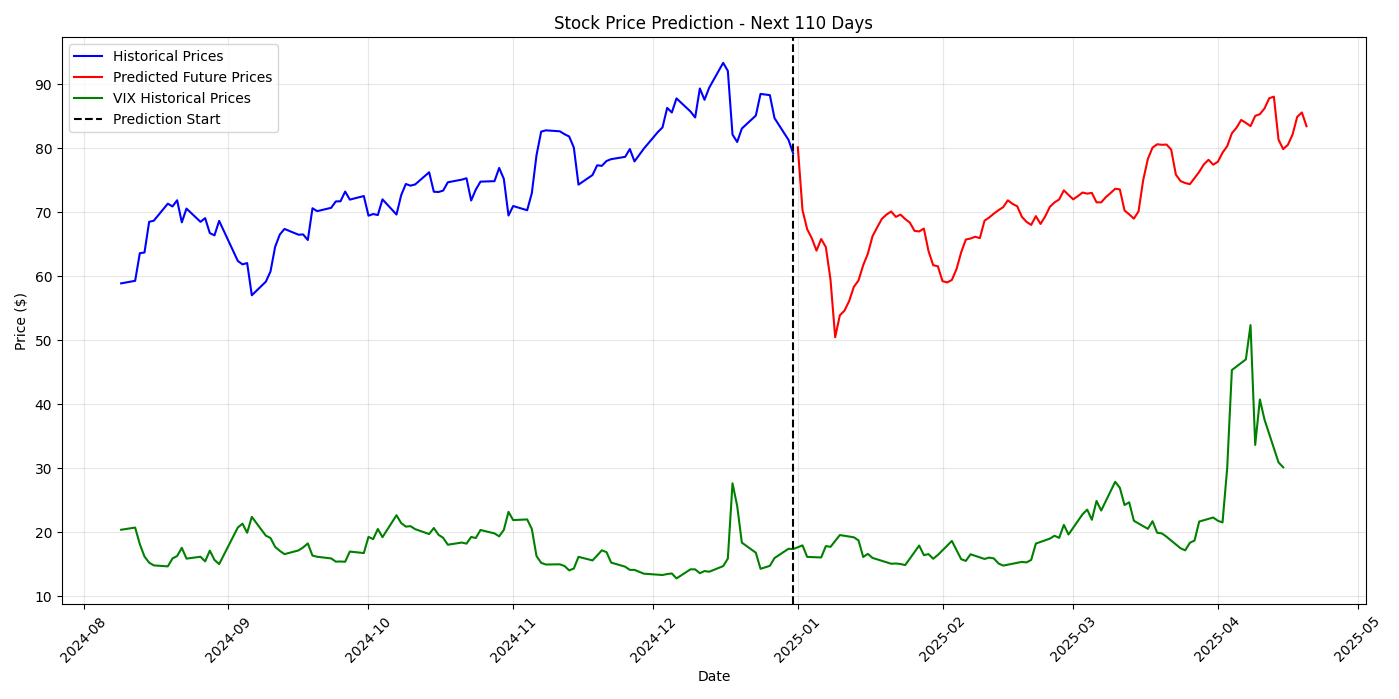
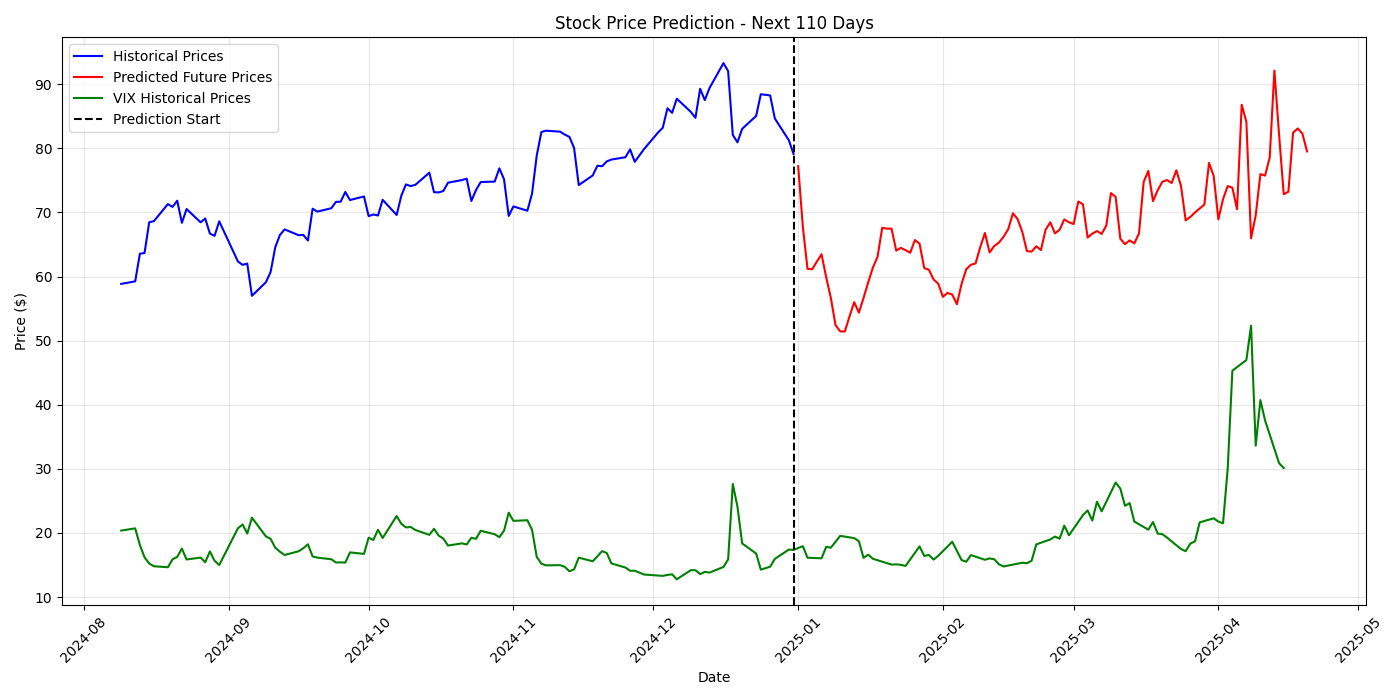
slightly better

diff --git a/tqqq.py b/tqqq.py
@@ -47,33 +47,52 @@ scaled_vix = scaler.fit_transform(vix_df[doscale])
 scaled_tqqq_df = pl.DataFrame(scaled_tqqq, schema=doscale)
 scaled_vix_df = pl.DataFrame(scaled_vix, schema=doscale)
 # Add VIX data to the scaled dataframe
-merged = df.join(vix_df, on='Date', how='inner', suffix='_vix')
+merged_for_gbdt = df.join(vix_df, on='Date', how='inner', suffix='_vix')
 
-# Gradient Boosting Regressor
-vix_features = [col for col in vix_df.columns if col not in ['Date', 'Volume']]
-X = merged.select([f"{col}_vix" for col in vix_features]).to_numpy()
-y = merged['Close'].to_numpy()
+# Define features for GBDT (original VIX column names, will be suffixed)
+gbdt_vix_original_features = [col for col in vix_df.columns if col not in ['Date', 'Volume']]
+# These are the feature names as they appear in merged_for_gbdt, used for selecting X
+gbdt_X_feature_names = [f"{col}_vix" for col in gbdt_vix_original_features]
 
-split_idx = int(len(X) * 0.8)
-X_train, X_test = X[:split_idx], X[split_idx:]
-y_train, y_test = y[:split_idx], y[split_idx:]
+X_gbdt = merged_for_gbdt.select(gbdt_X_feature_names).to_numpy()
+y_gbdt = merged_for_gbdt['Close'].to_numpy() # TQQQ Close is the target
+
+split_idx_gbdt = int(len(X_gbdt) * 0.8)
+X_train_gbdt, X_test_gbdt = X_gbdt[:split_idx_gbdt], X_gbdt[split_idx_gbdt:]
+y_train_gbdt, y_test_gbdt = y_gbdt[:split_idx_gbdt], y_gbdt[split_idx_gbdt:]
 
 # Train GBDT
 gbdt = GradientBoostingRegressor(n_estimators=100, random_state=42)
-gbdt.fit(X_train, y_train)
+gbdt.fit(X_train_gbdt, y_train_gbdt)
 
-# Predict using GBDT
-gbdt_preds = gbdt.predict(X)
-merged = merged.with_columns(pl.Series("GBDT_Pred", gbdt_preds))
+# Predict using GBDT on the entire merged_for_gbdt set to get GBDT_Pred column
+gbdt_preds_all = gbdt.predict(X_gbdt)
+merged_for_gbdt = merged_for_gbdt.with_columns(pl.Series("GBDT_Pred", gbdt_preds_all))
 
-# Include GBDT predictions in the scaled dataframe
-noscale = ['Date','Volume','Volume_vix']
+merged = merged_for_gbdt
+
+# --- LSTM Preprocessing ---
+# Define features to scale for LSTM
+# Noscale should include original VIX columns if they are still in 'merged' from a different join.
+# Assuming 'merged' columns are: TQQQ_cols, VIX_cols_suffixed, GBDT_Pred
+noscale = ['Date','Volume','Volume_vix'] # Volume from TQQQ, Volume_vix from VIX
 doscale = [col for col in merged.columns if col not in noscale]
 
-# Scale the merged dataframe
+# Scale the 'merged' dataframe (which now includes GBDT_Pred)
 scaler = MinMaxScaler(feature_range=(0,1))
-scaled_merged = scaler.fit_transform(merged[doscale])
-scaled_tqqq_df = pl.DataFrame(scaled_merged, schema=doscale)
+# Important: Fit the scaler on the data that will be used to create sequences.
+# Ensure 'doscale' only contains numeric columns intended for scaling.
+# Convert to numpy for scaler, handling potential non-numeric types if any slipped into doscale
+try:
+    doscale_numeric_data = merged.select(doscale).to_numpy()
+except pl.ComputeError as e:
+    print(f"Error converting doscale columns to numpy. Check for non-numeric types in 'doscale': {doscale}")
+    print(f"Columns in 'merged': {merged.columns}")
+    print(f"doscale list: {doscale}")
+    raise e
+
+scaled_merged_values = scaler.fit_transform(doscale_numeric_data)
+scaled_features_df = pl.DataFrame(scaled_merged_values, schema=doscale) # This df contains all features for LSTM, scaled
 
 # Make new scaler
 # The reason we need a new scaler because the first one operated on an array with shape (n,5)
@@ -85,21 +104,23 @@ close_scaler.fit(merged.select("Close").to_numpy())
 # Make Sequences
 # Partitions data into sequences meant to predict the value directly after them
 # Takes numpy array or dataframe in data, and sequence length in seq_length
-def make_sequences(data: pl.DataFrame, seq_length: int):
+def make_sequences(scaled_data_df: pl.DataFrame, full_merged_df: pl.DataFrame, seq_length: int,
+                   doscale_list: list, target_scaler: MinMaxScaler):
     sequences = []
     labels = []
 
-    # Convert to numpy
-    np_data = data.select(doscale).to_numpy()
-    close_prices = tqqq['Close'].to_numpy()
+    np_scaled_data = scaled_data_df.select(doscale_list).to_numpy()
+    # Get unscaled close prices from the *full* merged dataframe to ensure alignment
+    unscaled_close_prices_for_labels = full_merged_df['Close'].to_numpy()
 
-    for i in range(len(np_data) - seq_length):
-        sequences.append(np_data[i:i + seq_length])
+    for i in range(len(np_scaled_data) - seq_length):
+        sequences.append(np_scaled_data[i:i + seq_length])
 
-        # Get close price (not scaled yet) and scale it
-        price = close_prices[i + seq_length]
-        scaled_price = close_scaler.transform([[price]])[0][0]
-        labels.append(scaled_price)
+        # Get the unscaled close price for the label
+        price_label_unscaled = unscaled_close_prices_for_labels[i + seq_length]
+        # Scale it using the dedicated close_scaler
+        scaled_price_label = target_scaler.transform([[price_label_unscaled]])[0][0]
+        labels.append(scaled_price_label)
 
     return np.array(sequences), np.array(labels)
 
@@ -107,7 +128,7 @@ def make_sequences(data: pl.DataFrame, seq_length: int):
 length = 110
 
 # Converting scaled dataframe into sets of sequences and labels
-seqSet, labSet = make_sequences(scaled_tqqq_df, length)
+seqSet, labSet = make_sequences(scaled_features_df, merged, length, doscale, close_scaler)
 
 # Split into Training and Test Sets
 # Determine the split of how much of the sets do we want to be training
@@ -159,15 +180,11 @@ model.compile(
 # in a set number of epochs
 
 history = model.fit(
-    # Setting the training sets, x is the sequences and the y is the predicted values
     x = seqSetTrain,
     y = labSetTrain,
-
-    # Set number of epoch aka how many "cycles" the model trains before its done
-    epochs = 20,
-
-    # See (https://keras.io/api/models/model_training_apis/#fit-method)
-    # for more info on the fit method
+    epochs = 20, # more epochs for real training
+    batch_size=32, # Added batch_size
+    validation_split=0.1 # Optional: use part of training data for validation during training
 )
 
 # Predict from Tests
@@ -216,109 +233,112 @@ future_predictions_unscaled = []
 # 'doscale' is:
 # ['Open', 'High', 'Low', 'Close', 'Adj Close', 'Open_vix', 'High_vix', 'Low_vix', 'Close_vix', 'AdjClose_vix', 'GBDT_Pred']
 
-# Indices of key features in the 'doscale' list
-tqqq_close_idx = doscale.index('Close')
-
-# VIX feature names in 'doscale' and their original names in 'vix_df'
-doscale_vix_feature_names = ['Open_vix', 'High_vix', 'Low_vix', 'Close_vix', 'AdjClose_vix']
-# Original VIX column names in vix_df (these are used to fetch values and for GBDT input)
-original_vix_column_names_for_gbdt_input = [col for col in vix_df.columns if col not in ['Date', 'Volume']]
-# This should be ['Open', 'High', 'Low', 'Close', 'Adj Close']
-
-# Create a mapping from doscale_vix_feature_names to original_vix_column_names
-# This helps fetch the correct VIX value for the corresponding doscale feature
-vix_doscale_to_original_map = {
-    ds_name: og_name for ds_name, og_name in zip(doscale_vix_feature_names, original_vix_column_names_for_gbdt_input)
-}
-assert all(name in vix_doscale_to_original_map for name in doscale_vix_feature_names) # Sanity check
-
-# Indices of VIX features in 'doscale'
-vix_feature_indices_in_doscale = [doscale.index(name) for name in doscale_vix_feature_names]
-
-# Index of GBDT_Pred in 'doscale'
+tqqq_close_idx = doscale.index('Close') # TQQQ's own close price
 gbdt_pred_idx = doscale.index('GBDT_Pred')
 
-# Generate future dates for VIX data lookup and plotting
-last_date_in_merged_data = merged['Date'][-1]  # Last date for which we have TQQQ & VIX history in 'merged'
-future_dates = [last_date_in_merged_data + timedelta(days=i) for i in range(1, future_steps + 1)]
+# VIX feature names in 'doscale' (suffixed) and their original names in 'vix_df'
+# These are the VIX columns from 'vix_df' that were used to create the GBDT features
+# Make sure this list is in the same order as GBDT model expects its input features
+# gbdt_vix_original_features was defined earlier: [col for col in vix_df.columns if col not in ['Date', 'Volume']]
+# So, this should be ['Open', 'High', 'Low', 'Close', 'Adj Close'] (or similar, check vix.csv headers)
 
-# Get actual future VIX data from vix_df
-# This assumes vix_df contains VIX data for these future_dates
-future_vix_available_df = vix_df.filter(pl.col("Date").is_in(future_dates)).sort("Date")
+# Map from the suffixed names in 'doscale' to original names in 'vix_df'
+# Example: if gbdt_vix_original_features = ['Open', 'High', ..., 'Adj Close']
+# and corresponding doscale names are 'Open_vix', 'High_vix', ..., 'Adj Close_vix'
+doscale_vix_feature_names_suffixed = [f"{col}_vix" for col in gbdt_vix_original_features]
+
+# Check if all these suffixed names are actually in 'doscale'
+missing_suffixed_vix_in_doscale = [name for name in doscale_vix_feature_names_suffixed if name not in doscale]
+if missing_suffixed_vix_in_doscale:
+    raise ValueError(f"Suffixed VIX feature names {missing_suffixed_vix_in_doscale} not found in 'doscale' list ({doscale}). Check suffixing and 'doscale' definition.")
+
+vix_feature_indices_in_doscale = [doscale.index(name) for name in doscale_vix_feature_names_suffixed]
+
+# Generate future dates
+# Ensure 'merged' is sorted by 'Date' to get the correct last date.
+# The initial sort of df and vix_df and inner join should maintain this.
+last_date_in_merged_data = merged['Date'][-1]
+future_dates = [last_date_in_merged_data + timedelta(days=i) for i in range(1, future_steps + 1)]
 
 # --- Modified Future Prediction Loop ---
 print(f"Starting future prediction loop for {future_steps} steps...")
+future_predictions = []
+
 for k in range(future_steps):
-    # 1. Get the LSTM prediction (scaled TQQQ Close)
+    # Predict TQQQ Close (scaled) for the next step
     predicted_tqqq_close_scaled = model.predict(current_sequence, verbose=0)[0, 0]
-    
-    # 2. Unscale the TQQQ Close prediction for storage
+
+    # Unscale the prediction
     predicted_tqqq_close_unscaled = close_scaler.inverse_transform([[predicted_tqqq_close_scaled]])[0, 0]
     future_predictions_unscaled.append(predicted_tqqq_close_unscaled)
-    
-    # If this is the last prediction step, no need to prepare sequence for a *next* prediction
+
+    # If this is the last prediction needed, break
     if k == future_steps - 1:
         break
 
-    # --- Prepare the last timestep of the *next* input sequence ---
-    # This new last timestep will contain data corresponding to `future_dates[k]`
-    
-    current_future_day_for_vix = future_dates[k]
-    
-    # Roll the sequence: first timestep is discarded, new last timestep is a copy of the previous one
+    # --- Prepare the next input sequence ---
+    # Roll the sequence to make space for the new day's features
     current_sequence = np.roll(current_sequence, -1, axis=1)
-    # Get a reference to the new last slice (timestep) to update its features
+    # `new_last_slice_features_scaled` is a view into `current_sequence`
     new_last_slice_features_scaled = current_sequence[0, -1, :]
 
-    # 3. Update TQQQ 'Close' feature in the new last slice with the latest LSTM prediction (scaled)
+    # 1. Update TQQQ 'Close' feature with the latest (scaled) prediction
     new_last_slice_features_scaled[tqqq_close_idx] = predicted_tqqq_close_scaled
 
-    # Try to get actual VIX data for `current_future_day_for_vix`
-    actual_vix_data_for_current_day_pl = future_vix_available_df.filter(pl.col("Date") == current_future_day_for_vix)
+    # 2. Get VIX data for the current future day
+    current_future_day_for_vix = future_dates[k] # This is the date for which we need VIX data
+                                                 # to form features for predicting TQQQ on day k+1
 
-    if not actual_vix_data_for_current_day_pl.is_empty():
-        # Actual VIX data is available for this future day
-        
-        # 4. Update VIX features in the new last slice
-        for doscale_vix_name in doscale_vix_feature_names:
-            original_vix_name = vix_doscale_to_original_map[doscale_vix_name]
-            feature_idx = doscale.index(doscale_vix_name)
-            
-            unscaled_actual_vix_value = actual_vix_data_for_current_day_pl.select(original_vix_name).item()
-            
-            # Scale this VIX value using the main 'scaler' (fitted on merged[doscale])
-            # Formula: X_scaled = (X - scaler.min_[idx]) * scaler.scale_[idx] (for feature_range=(0,1))
-            scaled_actual_vix_value = (unscaled_actual_vix_value - scaler.min_[feature_idx]) * scaler.scale_[feature_idx]
-            
-            new_last_slice_features_scaled[feature_idx] = scaled_actual_vix_value
+    actual_vix_row_df = vix_df.filter(pl.col("Date") == current_future_day_for_vix)
 
-        # 5. Update 'GBDT_Pred' feature in the new last slice
-        #    a. Prepare input for GBDT model (unscaled, original VIX features)
-        gbdt_input_values_unscaled = np.array([[
-            actual_vix_data_for_current_day_pl.select(feat_name).item() for feat_name in original_vix_column_names_for_gbdt_input
-        ]])
-        
-        #    b. Get GBDT prediction (unscaled)
-        gbdt_pred_unscaled = gbdt.predict(gbdt_input_values_unscaled)[0]
-        
-        #    c. Scale the GBDT prediction
-        scaled_gbdt_pred = (gbdt_pred_unscaled - scaler.min_[gbdt_pred_idx]) * scaler.scale_[gbdt_pred_idx]
+    if not actual_vix_row_df.is_empty():
+        if k < 3 or k % 20 == 0 or k == future_steps -2 :
+             print(f"  Step {k+1}/{future_steps}: Using actual VIX for {current_future_day_for_vix.strftime('%Y-%m-%d')}")
+
+        # Prepare unscaled VIX features for GBDT input
+        gbdt_input_unscaled_vix_values = []
+        for original_vix_name in gbdt_vix_original_features: # Iterate in the order GBDT expects
+            gbdt_input_unscaled_vix_values.append(actual_vix_row_df.select(original_vix_name).item())
+
+        # 2a. Update GBDT_Pred based on actual VIX
+        # GBDT expects a 2D array of unscaled VIX values
+        gbdt_pred_unscaled = gbdt.predict(np.array([gbdt_input_unscaled_vix_values]))[0]
+        # Scale the new GBDT prediction using the main 'scaler'
+        # Correct scaling: value * scaler.scale_[idx] + scaler.min_[idx]
+        scaled_gbdt_pred = gbdt_pred_unscaled * scaler.scale_[gbdt_pred_idx] + scaler.min_[gbdt_pred_idx]
         new_last_slice_features_scaled[gbdt_pred_idx] = scaled_gbdt_pred
-        
-        if k < 3 or k % 20 == 0: # Print for a few initial steps and then periodically
-             print(f"  Step {k+1}/{future_steps}: Updated sequence with actual VIX for {current_future_day_for_vix.strftime('%Y-%m-%d')}")
 
+        # 2b. Update individual VIX features (Open_vix, High_vix, etc.)
+        for i, suffixed_vix_name in enumerate(doscale_vix_feature_names_suffixed):
+            original_vix_name = gbdt_vix_original_features[i] # Get corresponding original name
+            feature_idx_in_doscale = vix_feature_indices_in_doscale[i] # Index in 'doscale'
+
+            unscaled_actual_vix_value = actual_vix_row_df.select(original_vix_name).item()
+
+            # Scale this VIX value using the main 'scaler'
+            # Correct scaling: value * scaler.scale_[idx] + scaler.min_[idx]
+            scaled_actual_vix_value = unscaled_actual_vix_value * scaler.scale_[feature_idx_in_doscale] + scaler.min_[feature_idx_in_doscale]
+            new_last_slice_features_scaled[feature_idx_in_doscale] = scaled_actual_vix_value
     else:
-        # VIX data for current_future_day_for_vix not found in future_vix_available_df.
-        # In this case, the VIX features and GBDT_Pred in new_last_slice_features_scaled
-        # will retain the values that were rolled over from the previous timestep.
-        # TQQQ 'Close' is already updated. Other TQQQ features (Open, High, Low, AdjClose) are also rolled over.
-        if k < 3 or k % 20 == 0:
-            print(f"  Step {k+1}/{future_steps}: VIX data for {current_future_day_for_vix.strftime('%Y-%m-%d')} not found. Using rolled-over VIX/GBDT values.")
+        # If no actual VIX data, VIX features and GBDT_Pred in new_last_slice_features_scaled
+        # will retain their rolled-over values from the previous timestep.
+        if k < 3 or k % 20 == 0 or k == future_steps -2 :
+            print(f"  Step {k+1}/{future_steps}: No VIX data for {current_future_day_for_vix.strftime('%Y-%m-%d')}. VIX features & GBDT_Pred rolled over.")
+            current_pred = model.predict(current_sequence, verbose=0)
+            # Unscale the prediction using close_scaler
+            current_pred_unscaled = close_scaler.inverse_transform(current_pred)[0][0]
+            future_predictions.append(current_pred_unscaled)
             
-    # Note: TQQQ Open, High, Low, Adj Close features in new_last_slice_features_scaled
-    # are the values rolled over from the previous sequence's corresponding timestep.
-    # This is consistent with the original code's behavior for features not explicitly updated.
+            # Uplate the sequence:
+            # 1. Remove first element by shifting left
+            current_sequence = np.roll(current_sequence, -1, axis=1)
+            
+            # 2. Uplate the Close price in the last position of the sequence
+            # Assuming Close price is the 4th feature (index 3)
+            current_sequence[0, -1, 3] = current_pred[0][0]
+
+    # Other TQQQ features (Open, High, Low, Adj Close) in new_last_slice_features_scaled
+    # are currently rolled over. If you have models to predict them, they could be updated here too.
 
 # Convert list of unscaled predictions to numpy array
 future_predictions_unscaled = np.array(future_predictions_unscaled)
